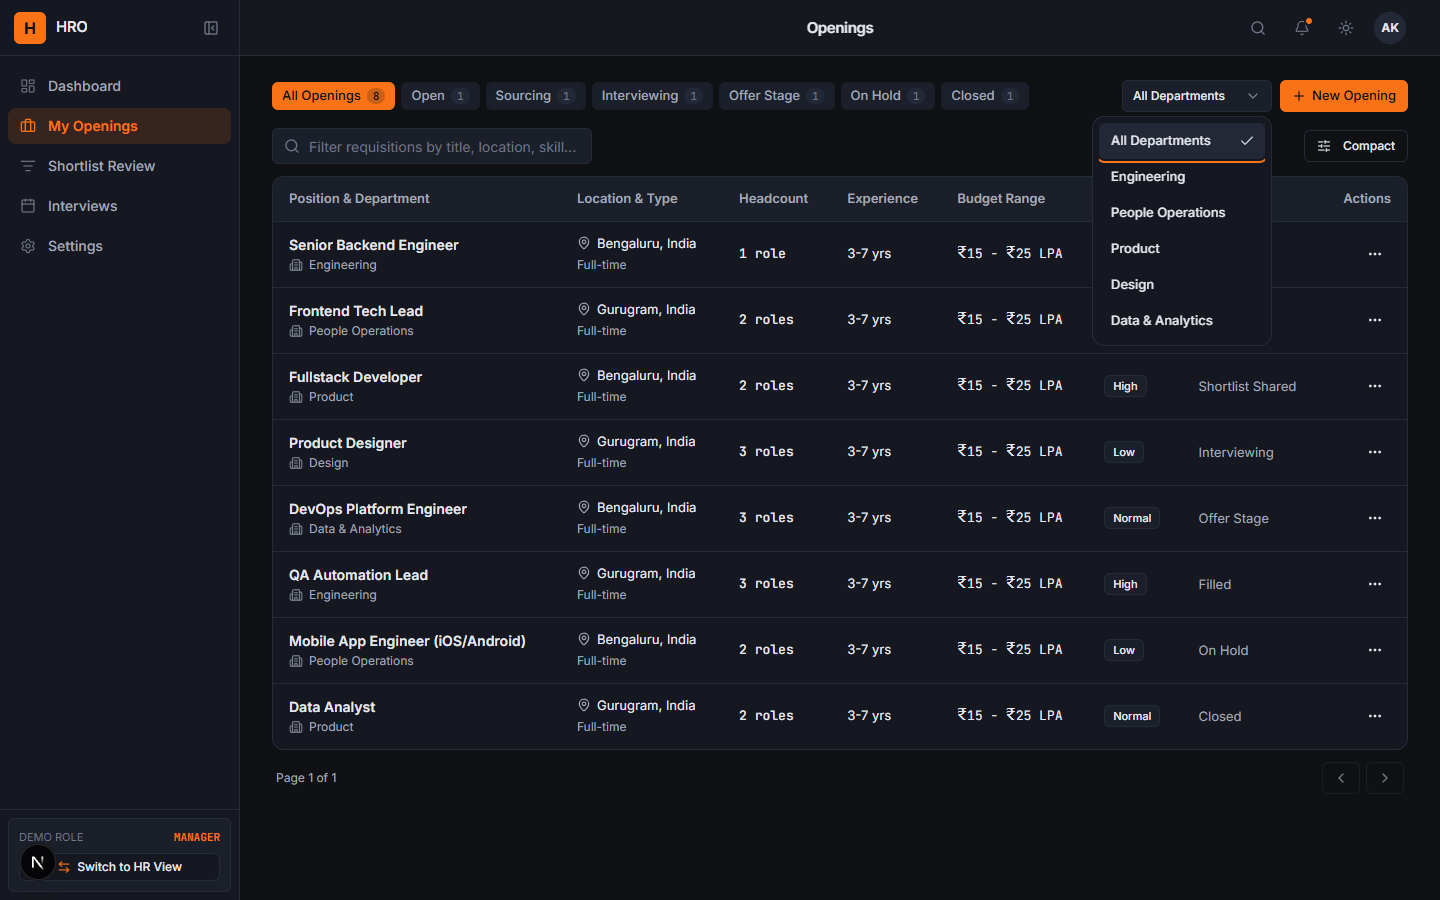
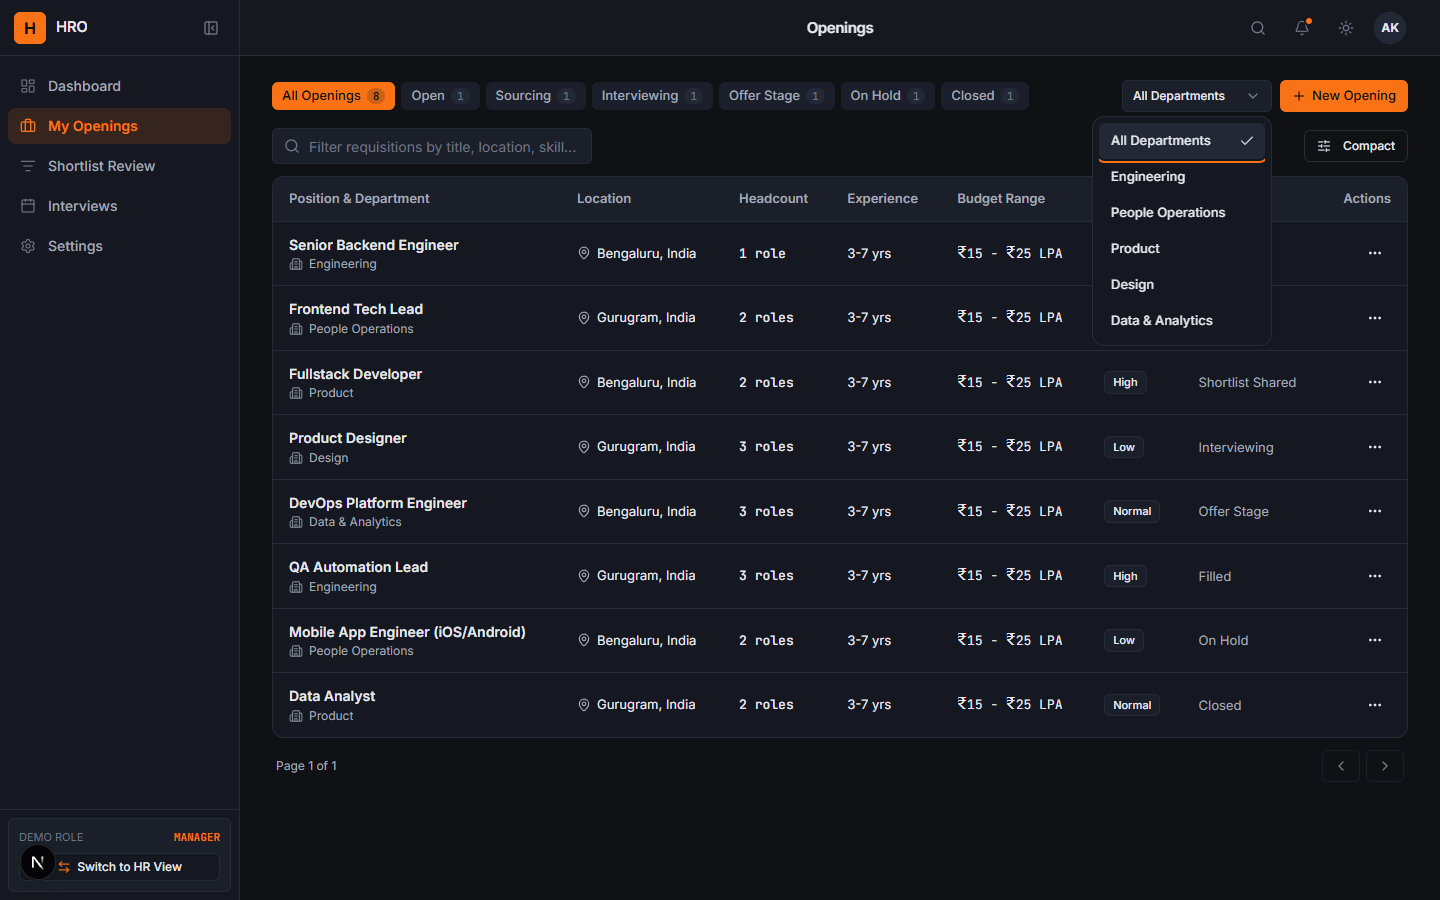
refactor(openings): remove Full-time employment type subline and simplify column to Location

diff --git a/features/openings/components/openings-table.tsx b/features/openings/components/openings-table.tsx
@@ -95,16 +95,13 @@ export function OpeningsTable() {
       },
       {
         accessorKey: 'location',
-        header: 'Location & Type',
+        header: 'Location',
         cell: ({ row }) => {
           const opening = row.original;
           return (
-            <div className="space-y-0.5 text-[13px]">
-              <div className="text-text flex items-center gap-1.5">
-                <MapPin className="text-text-muted h-3.5 w-3.5" />
-                <span>{opening.location}</span>
-              </div>
-              <span className="text-text-muted text-[12px]">{opening.employmentType}</span>
+            <div className="text-text flex items-center gap-1.5 text-[13px]">
+              <MapPin className="text-text-muted h-3.5 w-3.5 shrink-0" />
+              <span>{opening.location}</span>
             </div>
           );
         },
